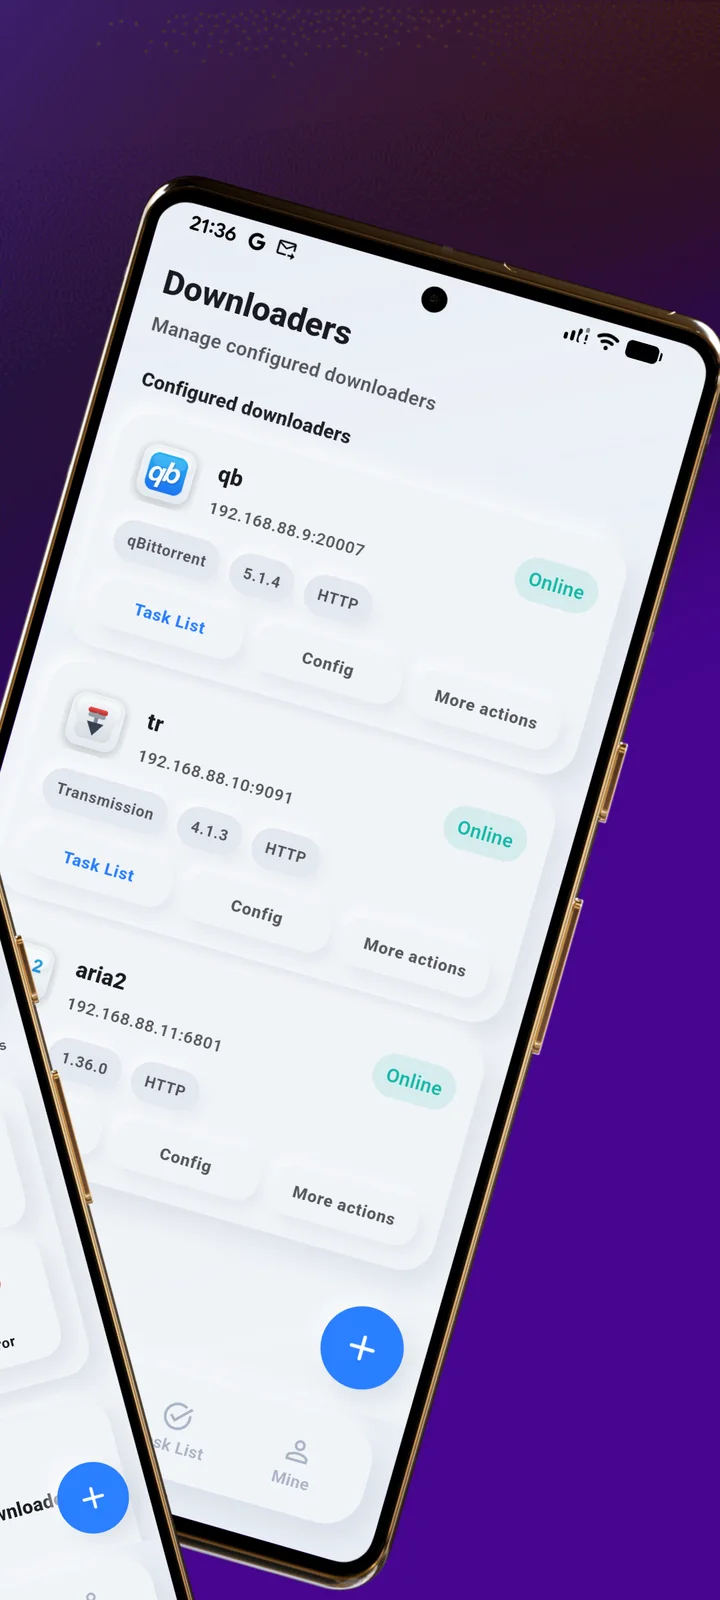
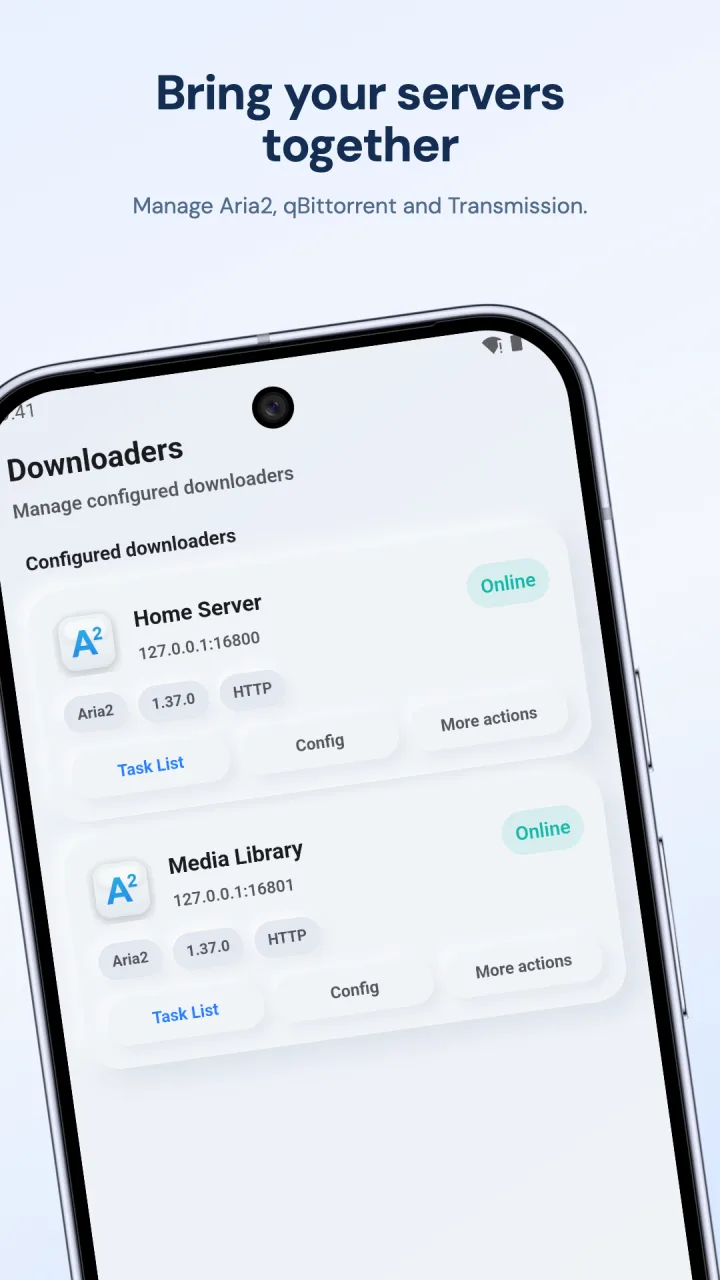
Refresh app screenshots in README

diff --git a/assets/readme/README.md b/assets/readme/README.md
@@ -1,7 +1,7 @@
 # Public presentation assets
 
 - `icon.png`: WindTorrent's existing Android launcher icon.
-- `overview.webp`, `downloaders.webp`, `tasks.webp`: resized and compressed versions of the official English [Google Play Pro listing](https://play.google.com/store/apps/details?id=com.hienao.windtorrent.pro) preview images, retrieved on 2026-10-19. They are store compositions of the app interface, not new captures of the latest version. Existing store previews may show older features. No UI content was altered.
+- `overview*.webp`, `downloaders*.webp`, `tasks*.webp`, `tablet*.webp`: compressed showcase compositions generated on 2026-10-31 from dedicated Goldie captures of the current Flutter interface. The captures use fictional tasks and local demo downloader fixtures; they are promotional compositions, not live transfer data. English, Simplified Chinese, and Japanese variants are provided.
 - `social-preview.png`: the existing WindTorrent English feature graphic, fitted to a solid 1280 × 640 canvas for GitHub link sharing. Its downloader panel is a promotional illustration, not a live status display.
 
 ## Refreshing assets
@@ -9,9 +9,3 @@
 Keep the real app interface as the visual proof. Use approved public store material or captures from a dedicated demo setup. Do not copy internal design mockups into the README as screenshots. For new captures, use fictional tasks and remove credentials, personal addresses, private trackers, and identifying information before publication.
 
 Keep screenshots compressed, preserve their aspect ratio, and inspect the README at desktop and phone widths. The social preview must remain below 1 MB. Its repository setting is separate from the image file; upload it in GitHub **Settings → General → Social preview** when changing it.
-
-## Preview image sources
-
-- [Overview image](https://play-lh.googleusercontent.com/s4JCFTu3r_9ycy2jzJYmSVGbeXEDQ2cZlmhQCTTn4aaoz5QaOpSLybzt-RKTYQXpst9Kvu22447_RMZ1p-tEQQ=w1080)
-- [Downloaders image](https://play-lh.googleusercontent.com/Cs65Wnk4vDRaWsJpEUTv8ypm2mRJKQp2AnX1m-c-aUON50NFKBpuzfThh0QCQ6rU8Ceh3P3PPBbrBEAxmhyuuA=w1080)
-- [Tasks image](https://play-lh.googleusercontent.com/yaUMagcoRelruiLJcm7a03Oykp56fAYiojcABoYDrt6MfaywZKcszDb3WTmz3Kui-8NCFRPosO2pqrBVUeyS9w=w1080)

diff --git a/README.ja.md b/README.ja.md
@@ -19,10 +19,12 @@
 WindTorrent は、NAS、サーバー、パソコンで稼働しているダウンローダーに接続するリモート管理アプリです。進捗の確認、タスクの追加、一時停止、再開をひとつの場所で行えます。ファイルのダウンロードと保存は、接続先のダウンローダーが動作する機器で行われます。
 
 <p align="center">
-  <a href="assets/readme/overview.webp"><img src="assets/readme/overview.webp" width="31%" alt="Google Play 掲載画像：ダウンローダーとタスクの概要"></a>
-  <a href="assets/readme/downloaders.webp"><img src="assets/readme/downloaders.webp" width="31%" alt="Google Play 掲載画像：Aria2、qBittorrent、Transmission の接続管理"></a>
-  <a href="assets/readme/tasks.webp"><img src="assets/readme/tasks.webp" width="31%" alt="Google Play 掲載画像：タスク検索、状態フィルター、ダウンロード進捗"></a>
+  <a href="assets/readme/overview-ja.webp"><img src="assets/readme/overview-ja.webp" width="31%" alt="Google Play 掲載画像：ダウンローダーとタスクの概要"></a>
+  <a href="assets/readme/downloaders-ja.webp"><img src="assets/readme/downloaders-ja.webp" width="31%" alt="Google Play 掲載画像：Aria2、qBittorrent、Transmission の接続管理"></a>
+  <a href="assets/readme/tasks-ja.webp"><img src="assets/readme/tasks-ja.webp" width="31%" alt="Google Play 掲載画像：タスク検索、状態フィルター、ダウンロード進捗"></a>
 </p>
+
+<p align="center"><a href="assets/readme/tablet-ja.webp"><img src="assets/readme/tablet-ja.webp" width="80%" alt="WindTorrent のタブレット画面プレビュー"></a></p>
 
 <p align="center"><sub>公式 Google Play の英語版掲載画像です。クリックすると拡大できます。実際の画面はバージョンにより異なる場合があります。</sub></p>
 

diff --git a/README.zh-CN.md b/README.zh-CN.md
@@ -19,10 +19,12 @@
 WindTorrent 连接你已经部署在 NAS、服务器或电脑上的下载器。在手机上查看进度、添加任务、暂停和继续下载。文件由连接的下载器下载，并保存在下载器所在的设备上。
 
 <p align="center">
-  <a href="assets/readme/overview.webp"><img src="assets/readme/overview.webp" width="31%" alt="Google Play 展示图：下载器和任务总览"></a>
-  <a href="assets/readme/downloaders.webp"><img src="assets/readme/downloaders.webp" width="31%" alt="Google Play 展示图：Aria2、qBittorrent 和 Transmission 连接管理"></a>
-  <a href="assets/readme/tasks.webp"><img src="assets/readme/tasks.webp" width="31%" alt="Google Play 展示图：任务搜索、状态筛选和下载进度"></a>
+  <a href="assets/readme/overview-zh-CN.webp"><img src="assets/readme/overview-zh-CN.webp" width="31%" alt="Google Play 展示图：下载器和任务总览"></a>
+  <a href="assets/readme/downloaders-zh-CN.webp"><img src="assets/readme/downloaders-zh-CN.webp" width="31%" alt="Google Play 展示图：Aria2、qBittorrent 和 Transmission 连接管理"></a>
+  <a href="assets/readme/tasks-zh-CN.webp"><img src="assets/readme/tasks-zh-CN.webp" width="31%" alt="Google Play 展示图：任务搜索、状态筛选和下载进度"></a>
 </p>
+
+<p align="center"><a href="assets/readme/tablet-zh-CN.webp"><img src="assets/readme/tablet-zh-CN.webp" width="80%" alt="WindTorrent 平板界面展示图"></a></p>
 
 <p align="center"><sub>以上为官方 Google Play 展示图，点击可查看大图；实际界面可能随版本更新调整。</sub></p>
 

diff --git a/README.fr.md b/README.fr.md
@@ -24,6 +24,8 @@ WindTorrent se connecte aux outils de téléchargement que vous utilisez déjà 
   <a href="assets/readme/tasks.webp"><img src="assets/readme/tasks.webp" width="31%" alt="Aperçu Google Play de la recherche, des filtres et de la progression des tâches"></a>
 </p>
 
+<p align="center"><a href="assets/readme/tablet.webp"><img src="assets/readme/tablet.webp" width="80%" alt="WindTorrent tablet interface preview"></a></p>
+
 <p align="center"><sub>Visuels officiels de Google Play en anglais. Cliquez pour les agrandir ; l’interface peut varier selon la version installée.</sub></p>
 
 ## Moins de changements d’application, plus de contrôle

diff --git a/README.es.md b/README.es.md
@@ -24,6 +24,8 @@ WindTorrent se conecta a las herramientas de descarga que ya tienes en un NAS, s
   <a href="assets/readme/tasks.webp"><img src="assets/readme/tasks.webp" width="31%" alt="Imagen de Google Play con búsqueda, filtros de estado y progreso de tareas"></a>
 </p>
 
+<p align="center"><a href="assets/readme/tablet.webp"><img src="assets/readme/tablet.webp" width="80%" alt="WindTorrent tablet interface preview"></a></p>
+
 <p align="center"><sub>Imágenes oficiales de Google Play en inglés. Pulsa para ampliarlas; la interfaz puede variar según la versión instalada.</sub></p>
 
 ## Menos cambios de aplicación, más control

diff --git a/README.de.md b/README.de.md
@@ -24,6 +24,8 @@ WindTorrent verbindet sich mit Downloadern, die bereits auf deinem NAS, Server o
   <a href="assets/readme/tasks.webp"><img src="assets/readme/tasks.webp" width="31%" alt="Google-Play-Vorschaubild mit Aufgabensuche, Statusfiltern und Fortschritt"></a>
 </p>
 
+<p align="center"><a href="assets/readme/tablet.webp"><img src="assets/readme/tablet.webp" width="80%" alt="WindTorrent tablet interface preview"></a></p>
+
 <p align="center"><sub>Offizielle englische Google-Play-Vorschaubilder. Zum Vergrößern anklicken; die installierte Version kann anders aussehen.</sub></p>
 
 ## Weniger wechseln, einfacher verwalten

diff --git a/README.pt-BR.md b/README.pt-BR.md
@@ -24,6 +24,8 @@ O WindTorrent se conecta aos gerenciadores de download que você já executa em 
   <a href="assets/readme/tasks.webp"><img src="assets/readme/tasks.webp" width="31%" alt="Imagem do Google Play com busca, filtros de status e progresso das tarefas"></a>
 </p>
 
+<p align="center"><a href="assets/readme/tablet.webp"><img src="assets/readme/tablet.webp" width="80%" alt="WindTorrent tablet interface preview"></a></p>
+
 <p align="center"><sub>Imagens oficiais do Google Play em inglês. Toque para ampliar; a interface pode variar conforme a versão instalada.</sub></p>
 
 ## Menos trocas de aplicativo, mais controle

diff --git a/README.md b/README.md
@@ -24,6 +24,8 @@ WindTorrent connects to downloaders you already run on a NAS, server, or compute
   <a href="assets/readme/tasks.webp"><img src="assets/readme/tasks.webp" width="31%" alt="Google Play preview of task search, status filters, and download progress"></a>
 </p>
 
+<p align="center"><a href="assets/readme/tablet.webp"><img src="assets/readme/tablet.webp" width="80%" alt="WindTorrent tablet interface preview"></a></p>
+
 <p align="center"><sub>Official Google Play preview images. Tap an image to view it larger; the installed version may look different.</sub></p>
 
 ## Less switching, more control
